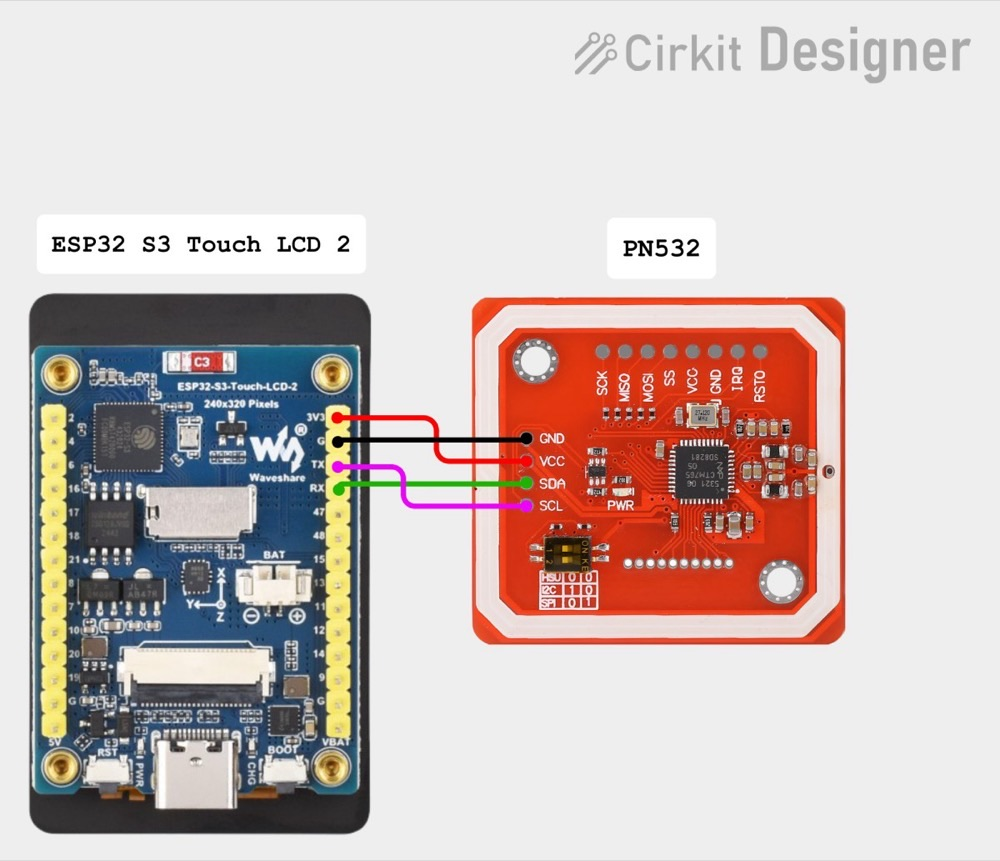
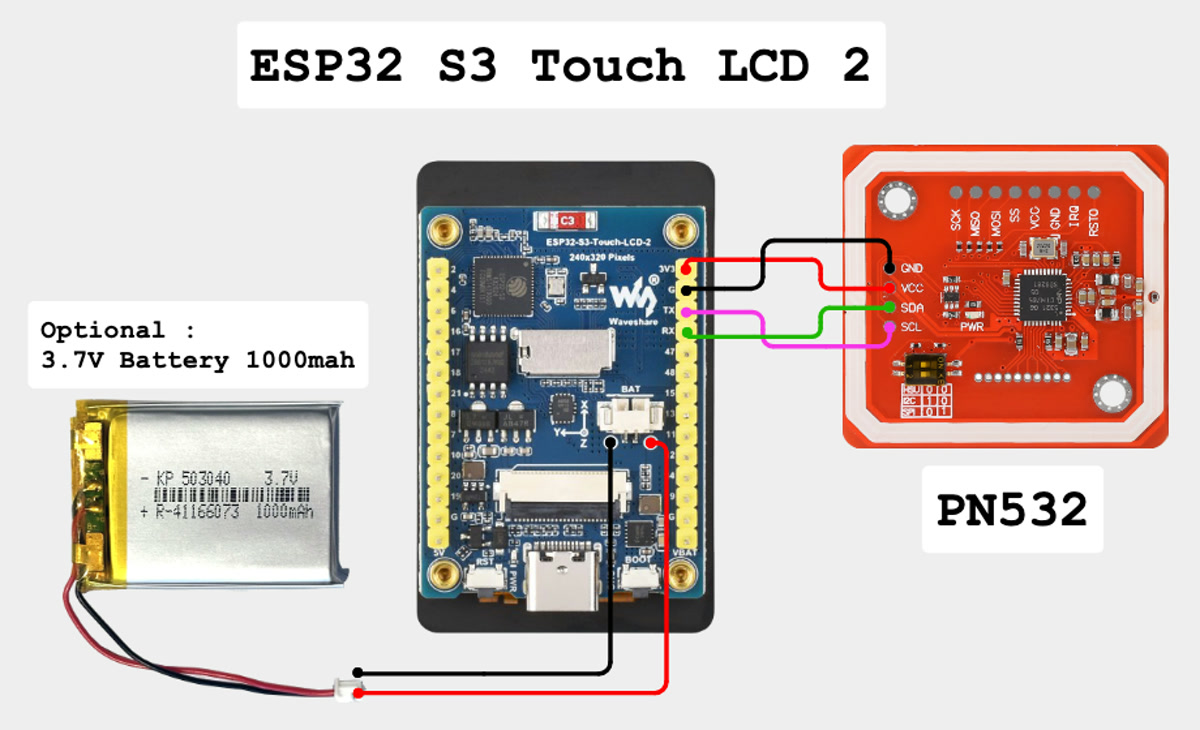
TigerSpool: new wiring diagram and Cirkit Designer link

diff --git a/i18n/fr/products/tigerspool.md b/i18n/fr/products/tigerspool.md
@@ -1,5 +1,5 @@
 ---
-sourceHash: 294aaa530d62c01a0b4adb5bb937b5b67296c4bdba2a643ee56dd32564c07bbe
+sourceHash: 76258a57b63698b0cd3fca0c4be001547b3eec64a7cfeb6c390e6a0eb8fd9785
 sourcePath: docs/products/tigerspool.md
 ---
 
@@ -145,7 +145,7 @@ pour les fois où il ne l'est pas.
 `SDA` et `SCL` — en mode HSU, ce sont elles qui portent l'UART : le **TX de la
 carte va sur `SCL`**, son **RX sur `SDA`**, et les deux interrupteurs DIP sont
 sur `0` / OFF.
-[Schéma interactif](https://app.cirkitdesigner.com/project/7a6c0887-8e44-4303-81b3-be51aab4b40a).*
+[Schéma interactif](https://app.cirkitdesigner.com/project/5b546f4e-70b8-4735-afff-be6bd36bc10c).*
 
 **Le flashage se fait depuis le navigateur** — branchez la carte, cliquez sur
 Install, attendez une minute. Chrome, Edge ou Opera sur un ordinateur ; Safari

diff --git a/docs/products/tigerspool.md b/docs/products/tigerspool.md
@@ -131,7 +131,7 @@ already plugged in, and the cell above is for the times it does not.
 *The whole harness. On the PN532 the two data pins are silkscreened `SDA` and
 `SCL` — in HSU mode they carry the UART: the board's **TX goes to `SCL`**, its
 **RX to `SDA`**, and both DIP switches sit at `0` / OFF.
-[Interactive schematic](https://app.cirkitdesigner.com/project/7a6c0887-8e44-4303-81b3-be51aab4b40a).*
+[Interactive schematic](https://app.cirkitdesigner.com/project/5b546f4e-70b8-4735-afff-be6bd36bc10c).*
 
 **Flashing is done from the browser** — plug the board in, click Install, wait
 a minute. Chrome, Edge or Opera on a desktop; Safari and Firefox do not
